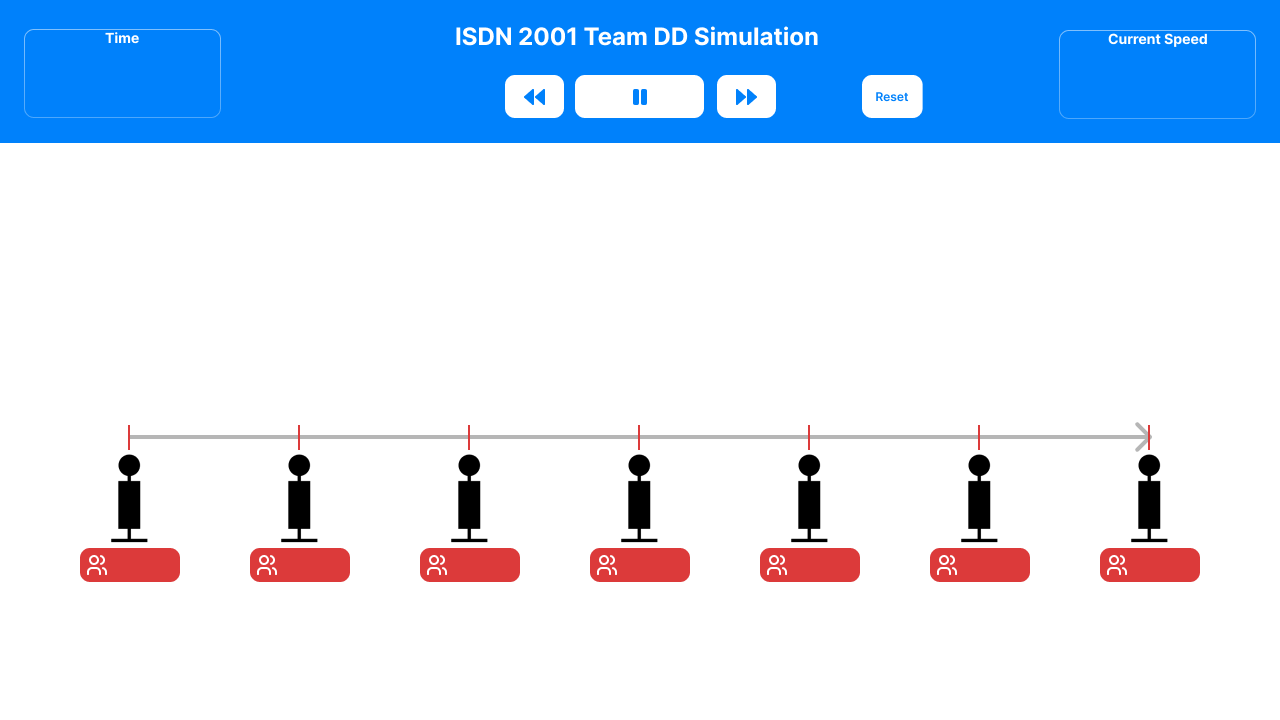
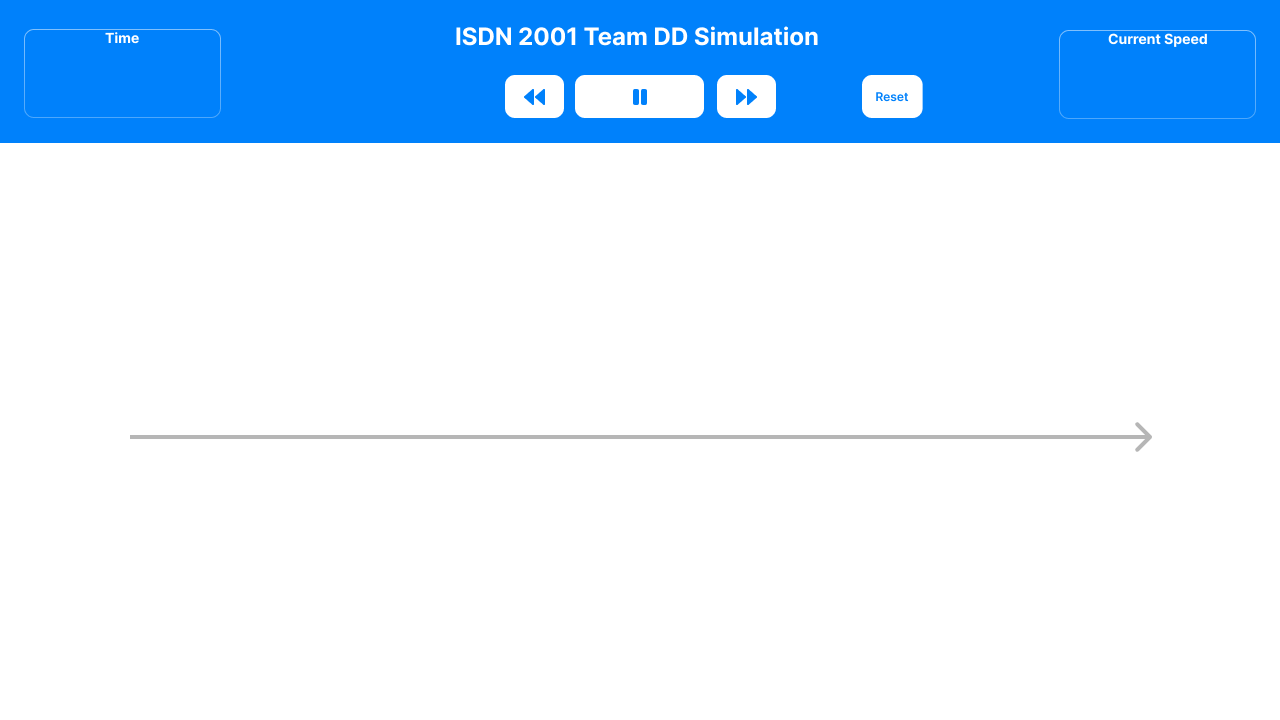
update

diff --git a/simulation/game.py b/simulation/game.py
@@ -7,7 +7,6 @@ import stop
 
 ### const ###
 MAX_TIME = -1  # -1 -> inf
-DELAY_TIME = [80, 40, 20, 10, 0]  # speed -1 = index , value = delay
 bus_cycle = 7*60
 
 ### init ###
@@ -64,6 +63,16 @@ def arrive(s, bus) :
     on = s.ppl
   bus.ppl += on
   s.ppl -= on
+  if s.ppl == 0 :
+    if s.count != 0 :
+      s.count = 0
+      s.image = pygame.image.load("asset/stop1.png")
+  else :  # still hv ppl after arrival
+    s.count += 1
+    if s.count == 1 :
+      s.image = pygame.image.load("asset/stop2.png")
+    else :
+      s.image = pygame.image.load("asset/stop3.png")
 
 ##### loop #####
 running = True
@@ -104,6 +113,7 @@ while running :
         time = 0  # reset the time
         minibus.minibus.l_obj = []  # clear all minibus
         for s in stop.stop.l_obj :
+          s.image = pygame.image.load("asset/stop1.png")
           s.ppl = int(s.P_queue/2)  # init all s.ppl
         pause = True  # continues
              
@@ -158,6 +168,7 @@ while running :
     write(str(bus.ppl).zfill(2), (bus.rec.x+50, bus.rec.y+8), font_small)
   
   for s in stop.stop.l_obj :
+    screen.blit(s.image, s.rec)
     write(str(s.ppl).zfill(2), (s.rec.x+50, s.rec.y+129), font_small)
 
 

diff --git a/simulation/stop.py b/simulation/stop.py
@@ -7,10 +7,13 @@ class stop :
 
   def __init__(self, location = -1, P_queue = 0, P_off = 0) :
     self.ppl = int(P_queue/2)  # current amount of ppl
-    self.location = location  # relative "location" of the stop at the route , how many sec needed to go to from the start(by real data)
+    self.location = location  # relative "location" of the stop at the route
     self.P_queue = P_queue/1000  # P(how many ppl get in the queue per time)/1000
     self.P_off = P_off/100  # P(how many ppl get off the minibus per people in bus)/100
+    self.count = 0  # how many time the minibus arrival cant clear the stop
     self.rec = pygame.Rect(80 + len(stop.l_obj)*170, 425, 100, 157)
+    self.image = pygame.image.load("asset/stop1.png")
     stop.l_obj.append(self)
     stop.l_location.append(location)
+
 
